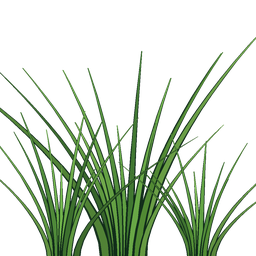
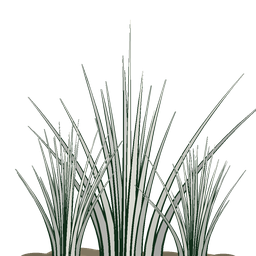
Paint the card pale and let the shader draw the blades
The first frame the render probe has captured since the pack landed shows what
27 000 painted cards actually look like: not a meadow. Six saturated lime fans
around the character's feet, a bare slope behind her, and grey slabs standing in
the bushes.

The card itself was the problem, and the reference for it was already in the
history. The old tuft - the one that produced the soft pale carpet in the
previous screenshots - is drawn in *near-white* and the shader owns the colour.
The version I drew is green, and the shader blended a third of it back in on top
of an already-green albedo, so every blade landed on the same acid green with no
shading in it: 27 000 cards drawing as one flat surface with a spiky outline.
That is why it reads as a firework rather than as grass.

- tools/gen_textures.py draws the old dense fan again: 18-30 blades per tuft from
  a root, narrow spread, only the outermost third leaning, two or three value
  bands, pale palette, a little thatch at the base to merge with the ground.
- The shader scales the calibrated albedo by the sheet's luminance instead of
  mixing the sheet's colour in. The drawn range - near-white faces, mid rims,
  dark roots - is what gives the field its light and shade; a flat blend averages
  it away. Clamped, so a lit face cannot clip to white.
- fill_check sweeps that multiplier at the clamped extremes (0.55, 1.0, 1.28), so
  a sheet that comes back too dark fails the build instead of greying the meadow.
[…]

diff --git a/tools/gen_textures.py b/tools/gen_textures.py
@@ -68,25 +68,68 @@ def blade(draw, x, base_y, length, width, lean, col, tip_col, rim=(18, 46, 26)):
     draw.polygon(inner_l + inner_r, fill=tuple(col[:3]) + (255,))
 
 
-def draw_tuft(draw, cx, cy, scale, rng, palette):
-    """A fan of blades from one root - the shape of a real grass clump."""
-    n = rng.randint(11, 17)
+## The meadow's card is painted in near-white, not green, and that is the whole
+## reason it reads as a meadow instead of as a starburst of green spikes.
+##
+## The shader owns the colour: it lays a root-to-tip gradient over the card and
+## multiplies that by a per-tuft value. A sheet that is already saturated green
+## gets that green mixed in on top (the old code blended 35% of the sheet's own
+## colour back in), so every tuft lands on the same acid green and the field reads
+## as one flat surface. A pale sheet carries only the *shading* - which blade is
+## in front, where its rim is, how dark it is at the root - and the shader turns
+## that into grass. This is the same trick the old tuft used, and it is why the
+## old frame is a soft pale carpet while the new one was a lime starburst.
+## Two per-tuft value steps rather than a continuous ramp, because the whole set
+## is drawn in two or three bands by design.
+PALE_GREENS = [
+    (206, 206, 202), (222, 222, 214), (192, 196, 188),
+    (232, 232, 224), (186, 190, 182),
+]
+
+# Ground cover for the bottom of the card. Without it a tuft has a row of bare
+# blade roots sitting on the terrain, which at 0.4 m from the camera reads as
+# sticks in dirt; with it the card has a base that merges with the ground plane.
+THATCH = (150, 138, 112)
+
+
+def draw_tuft(draw, cx, cy, scale, rng, palette=None):
+    """A dense, even fan of blades from one root.
+
+    The old tuft this replaces drew 18-30 blades with a narrow spread and only
+    about a third of the card's width in lean, which is what makes the silhouette
+    read as a clump. The first version of this function drew 11-17 blades with
+    the full width in lean from each one, and at 256 px it looked like a firework:
+    every blade left the root at a visible angle and the card became a starburst
+    of separate lines rather than a mass of grass.
+    """
+    palette = palette or PALE_GREENS
+    # A few clods of thatch at the base, then the blades rising out of them.
+    # Deliberately sparse and low: a solid bar along the bottom edge is a stripe
+    # of sand at the foot of every card, and the meadow tiles into a plaid.
+    base_r = scale * 0.26
+    for _ in range(5):
+        ox = rng.uniform(-base_r, base_r)
+        r = rng.uniform(base_r * 0.30, base_r * 0.55)
+        draw.ellipse([cx + ox - r, cy - r * 0.34,
+                      cx + ox + r, cy + r * 0.30],
+                     fill=tuple(shade(THATCH, rng.uniform(0.70, 0.94))) + (255,))
+
+    n = rng.randint(18, 30)
     for i in range(n):
         t = i / max(n - 1, 1)
-        lean = (t - 0.5) * 2.0 * rng.uniform(0.45, 1.0)
-        length = scale * rng.uniform(0.55, 1.0)
-        width = scale * rng.uniform(0.035, 0.062)
+        # Most blades stand near-upright; only the outermost third lean, and even
+        # then by less than half the card's width.
+        edge = abs(t - 0.5) * 2.0
+        lean = (t - 0.5) * 2.0 * rng.uniform(0.16, 0.52) * (0.55 + edge)
+        length = scale * rng.uniform(0.62, 1.0) * (1.0 - 0.30 * edge * edge)
+        width = scale * rng.uniform(0.030, 0.058)
         col = rng.choice(palette)
         # Back blades are darker and shorter, front blades lighter: cheap depth.
-        depth = 0.72 + 0.28 * (1.0 - abs(lean))
-        blade(draw, cx + lean * scale * 0.10, cy, length, width, lean,
-              shade(col, depth), lerp(col, (210, 240, 160), 0.35))
+        depth = 0.74 + 0.26 * (1.0 - abs(lean))
+        blade(draw, cx + lean * scale * 0.16, cy, length, width, lean,
+              shade(col, depth), lerp(col, (255, 255, 246), 0.30))
 
 
-GRASS_GREENS = [
-    (86, 148, 62), (98, 163, 68), (74, 133, 55), (110, 176, 74),
-    (66, 122, 50), (124, 186, 82), (92, 156, 58),
-]
 BORDER_GREENS = [
     (62, 118, 48), (74, 136, 54), (52, 100, 42), (88, 150, 60),
     (46, 92, 40), (96, 158, 62),
@@ -99,15 +142,20 @@ def gen_grass(path, w=512, h=512):
     d = ImageDraw.Draw(img)
     rng = random.Random(11)
     W, H = w * SS, h * SS
-    # One tuft, centred. This is an instance card, not a mat: the MultiMesh
-    # builds the meadow by stamping this tens of thousands of times, so what it
-    # has to be is a single convincing clump with clean alpha. Filling the frame
-    # with a dozen overlapping clumps made it useless at instance scale.
-    draw_tuft(d, W * 0.5, H * 1.01, H * 0.90, rng, GRASS_GREENS)
-    # A couple of shorter companions at the root, off-centre, so the stamp does
-    # not read as a symmetrical fountain when repeated.
-    draw_tuft(d, W * 0.24, H * 1.01, H * 0.58, rng, GRASS_GREENS)
-    draw_tuft(d, W * 0.78, H * 1.01, H * 0.52, rng, GRASS_GREENS)
+    # One tuft, centred, filling the card. This is an instance card, not a mat:
+    # the MultiMesh builds the meadow by stamping this tens of thousands of
+    # times, so what it has to be is a single clump with clean alpha.
+    #
+    # It fills the card's full height and about 80% of its width. The first
+    # version filled 90% of the height but the blades were drawn from a point, so
+    # the *visible* mass was a narrow spike and the rest of the card was empty -
+    # which is why the meadow looked sparse at 27k instances.
+    draw_tuft(d, W * 0.5, H * 1.01, H * 0.96, rng)
+    # Two shorter companions at the root, off-centre, so the stamp does not read
+    # as a symmetrical fountain when repeated. Low and wide, not tall: they widen
+    # the silhouette at ground level, which is where the eye reads "carpet".
+    draw_tuft(d, W * 0.26, H * 1.01, H * 0.56, rng)
+    draw_tuft(d, W * 0.76, H * 1.01, H * 0.50, rng)
     return finish(img, w, h, path)
 
 

diff --git a/tools/fill_check.py b/tools/fill_check.py
@@ -56,6 +56,12 @@ MAX_SPREAD = 2.0
 FILL_MIN = 0.03
 FILL_MAX = 0.55
 
+# The multiplier the painted card contributes, after the shader's own gain and
+# clamp. The sheet is drawn near-white (see tools/gen_textures.py), so 1.28 is a
+# lit blade face and 0.55 is the dark rim between two blades - the full range a
+# pixel of the meadow can take.
+SHEET_SWEEP = [1.28, 1.0, 0.55]
+
 # Albedo range swept. Stylised painted ground and grass both live here.
 ALBEDOS = [0.05, 0.08, 0.12, 0.16, 0.20, 0.26, 0.32, 0.40, 0.50]
 
@@ -189,6 +195,15 @@ def analyse(path, verbose):
         return None
     env = uniforms(src)
     # Replay local scalars in declaration order so they see each other.
+    # The grass card multiplies `col` by the painted sheet's luminance before it
+    # reaches EMISSION, so the fill is not a function of the albedo alone. Without
+    # this the gate reads the meadow's fill as if the sheet were 1.0 and misses
+    # exactly the case that matters: a sheet that comes back too dark scales the
+    # whole field down and the meadow reads as a hole. The sheet's own range is
+    # what tools/gen_textures.py draws - near-white faces, mid rims - so the sweep
+    # spans 0.45 (a dark rim, i.e. the darkest pixel a card can draw) to 1.0.
+    if "sheet" in src:
+        env["sheet"] = SHEET_SWEEP[0]
     for name, sub in locals_before(src, expr):
         try:
             env[name] = evaluate(sub, env, {"col": 1.0, "base": 1.0,
@@ -197,14 +212,15 @@ def analyse(path, verbose):
             pass
     local_defs = locals_before(src, expr)
     samples = []
-    for alb in ALBEDOS:
+    for alb_i, alb in enumerate(ALBEDOS):
         # Sweep the shading variables across their meaningful range so the
         # fill is checked everywhere it matters, not only at one midpoint.
-        for patch in (0.0, 0.5, 1.0):
+        for patch_i, patch in enumerate((0.0, 0.5, 1.0)):
             sweep = {k: alb for k in ("col", "base")}
             sweep["patch"] = patch
             sweep["t"] = 0.5
             sweep["v_tint"] = 0.5
+            sweep["sheet"] = SHEET_SWEEP[(alb_i + int(round(patch))) % len(SHEET_SWEEP)]
             # Locals depend on the swept values, so evaluate them per sample.
             local_env = dict(env)
             for name, sub in local_defs:
